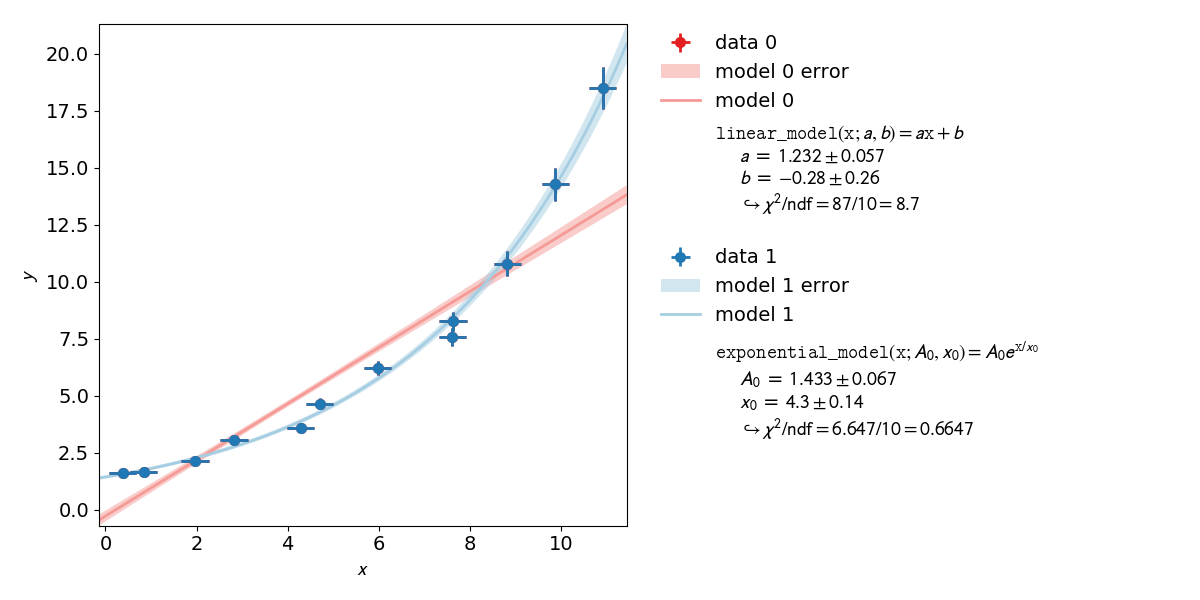
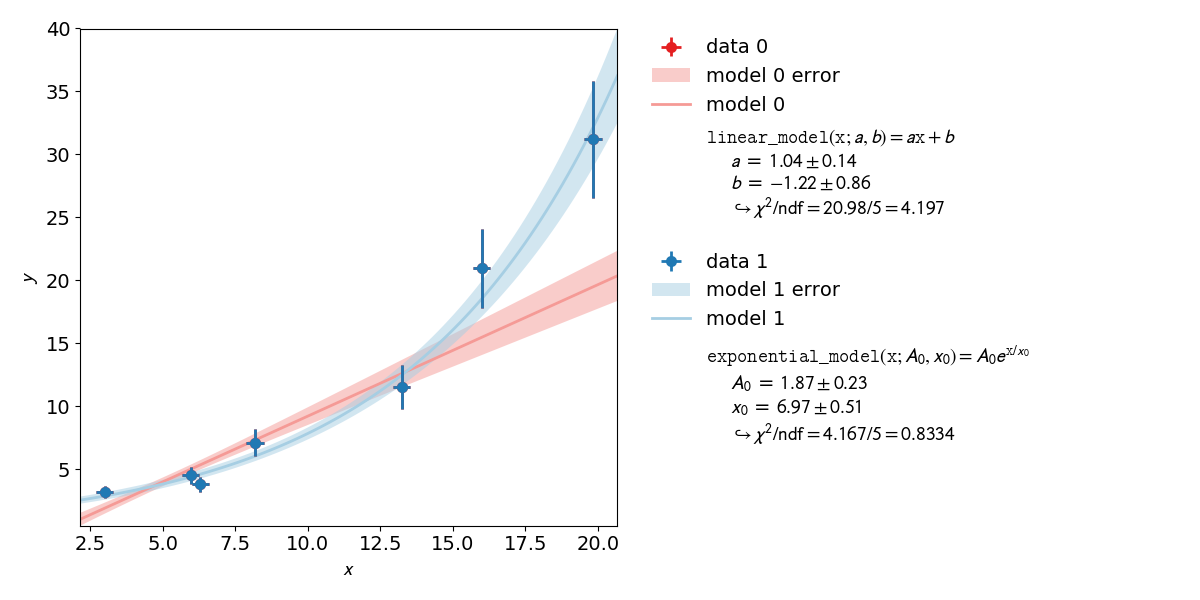
[doc] improve example2

diff --git a/examples/002_model_functions/generate_data.py b/examples/002_model_functions/generate_data.py
@@ -6,23 +6,25 @@ Create an XYContainer holding the measurement data
 and the errors and write it to a file.
 """
 
-NUM_DATAPOINTS = 12
-X_ERROR = 0.3 # Absolute error
-Y_ERROR = 0.05 # Relative error
+START, STOP, NUM_DATAPOINTS = 0, 20, 7
+X_ERROR = 0.3  # Absolute error
+Y_ERROR = 0.15  # Relative error
 
-np.random.seed(53687) # Seeding makes pseudo-random numbers the same every time.
+np.random.seed(163678643)  # Seeding makes pseudo-random numbers the same every time.
 
-def exponential_model(x, A0=1.5, x0=4.5):
+
+def exponential_model(x, A0=2, x0=7):
     # Generate simulated data with one of the model functions
     return A0 * np.exp(x/x0)
 
-x_data_0 = np.arange(NUM_DATAPOINTS)
+
+x_data_0 = (STOP-START)*np.random.rand(NUM_DATAPOINTS)+START
 x_data_jitter = np.random.normal(loc=0, scale=X_ERROR, size=NUM_DATAPOINTS)
 x_data = x_data_0 + x_data_jitter
 
 y_data_0 = exponential_model(x=x_data_0)
 y_data_jitter = np.random.normal(loc=0, scale=Y_ERROR, size=NUM_DATAPOINTS)
-y_data = y_data_0 *(1.0 + y_data_jitter)
+y_data = y_data_0 * (1.0 + y_data_jitter)
 
 data = XYContainer(x_data=x_data, y_data=y_data)
 

diff --git a/examples/002_model_functions/model_functions.py b/examples/002_model_functions/model_functions.py
@@ -10,9 +10,8 @@ This example demonstrates how to specify arbitrary model functions for
 a kafe2 fit.
 """
 
+from kafe2 import XYContainer, XYFit, Plot, ContoursProfiler
 import numpy as np
-
-from kafe2 import XYContainer, XYFit, Plot
 import matplotlib.pyplot as plt
 
 # To define a model function for kafe2 simply write it as a python function
@@ -52,6 +51,10 @@ exponential_fit.report()
 # Optional: Create a plot of the fit results using Plot.
 p = Plot(fit_objects=[linear_fit, exponential_fit], separate_figures=False)
 p.plot(with_fit_info=True)
+
+# Optional: Create a contour plot for the exponential fit, to show the parameter correlation
+cpf = ContoursProfiler(exponential_fit)
+cpf.plot_profiles_contours_matrix(show_grid_for='contours')
 
 # Show the fit results.
 plt.show()

diff --git a/doc/src/parts/user_guide.rst b/doc/src/parts/user_guide.rst
@@ -3,6 +3,9 @@
                          models to several types of data with
    :robots: index, follow
 
+.. role:: python(code)
+   :language: python
+
 
 **********
 User Guide
@@ -104,6 +107,29 @@ When a different function has to be fitted, those functions need to be defined e
 
 The expectation value of :math:`\chi^2/\mathrm{ndf}` is 1. Thus the exponential function
 more accurately describes the dataset than a line function.
+
+An exponential function is a **non-linear** function! Therefore the fit parameters can be heavily
+correlated. To verify this, please create a contour plot of the fitted parameters.
+This can be done by appending the ``-c`` or ``--contours`` option to ``kafe2go``. Additionally a
+grid can be added to the contour plots with the ``--grid all`` flag.
+To achieve the same with a `Python` script, import the ``ContoursProfiler`` with
+:python:`from kafe2 import ContoursProfiler` and create a contour plot:
+
+.. literalinclude:: ../../../examples/002_model_functions/model_functions.py
+    :lines: 55-57
+
+By creating the contours in a `Python` script the user has a finer control on which parameters to
+use as well on the appearance of the contour plot via various keyword arguments.
+
+The according contour plot to the exponential fit shown above looks like this:
+
+.. figure:: ../static/img/002_exponential_contours.png
+    :alt: Contour plot corresponding to the exponential fit.
+
+When looking at the :math:`1\sigma` contour it's slightly visible, that the contour is not
+perfectly elliptical. But in this case the deformation is very small and is negligible.
+If a contour is not elliptical it is good practice to show the contour plot in addition to the
+uncertainties from the fit. This illustrates the correlation of the parameters.
 
 kafe2go
 -------
